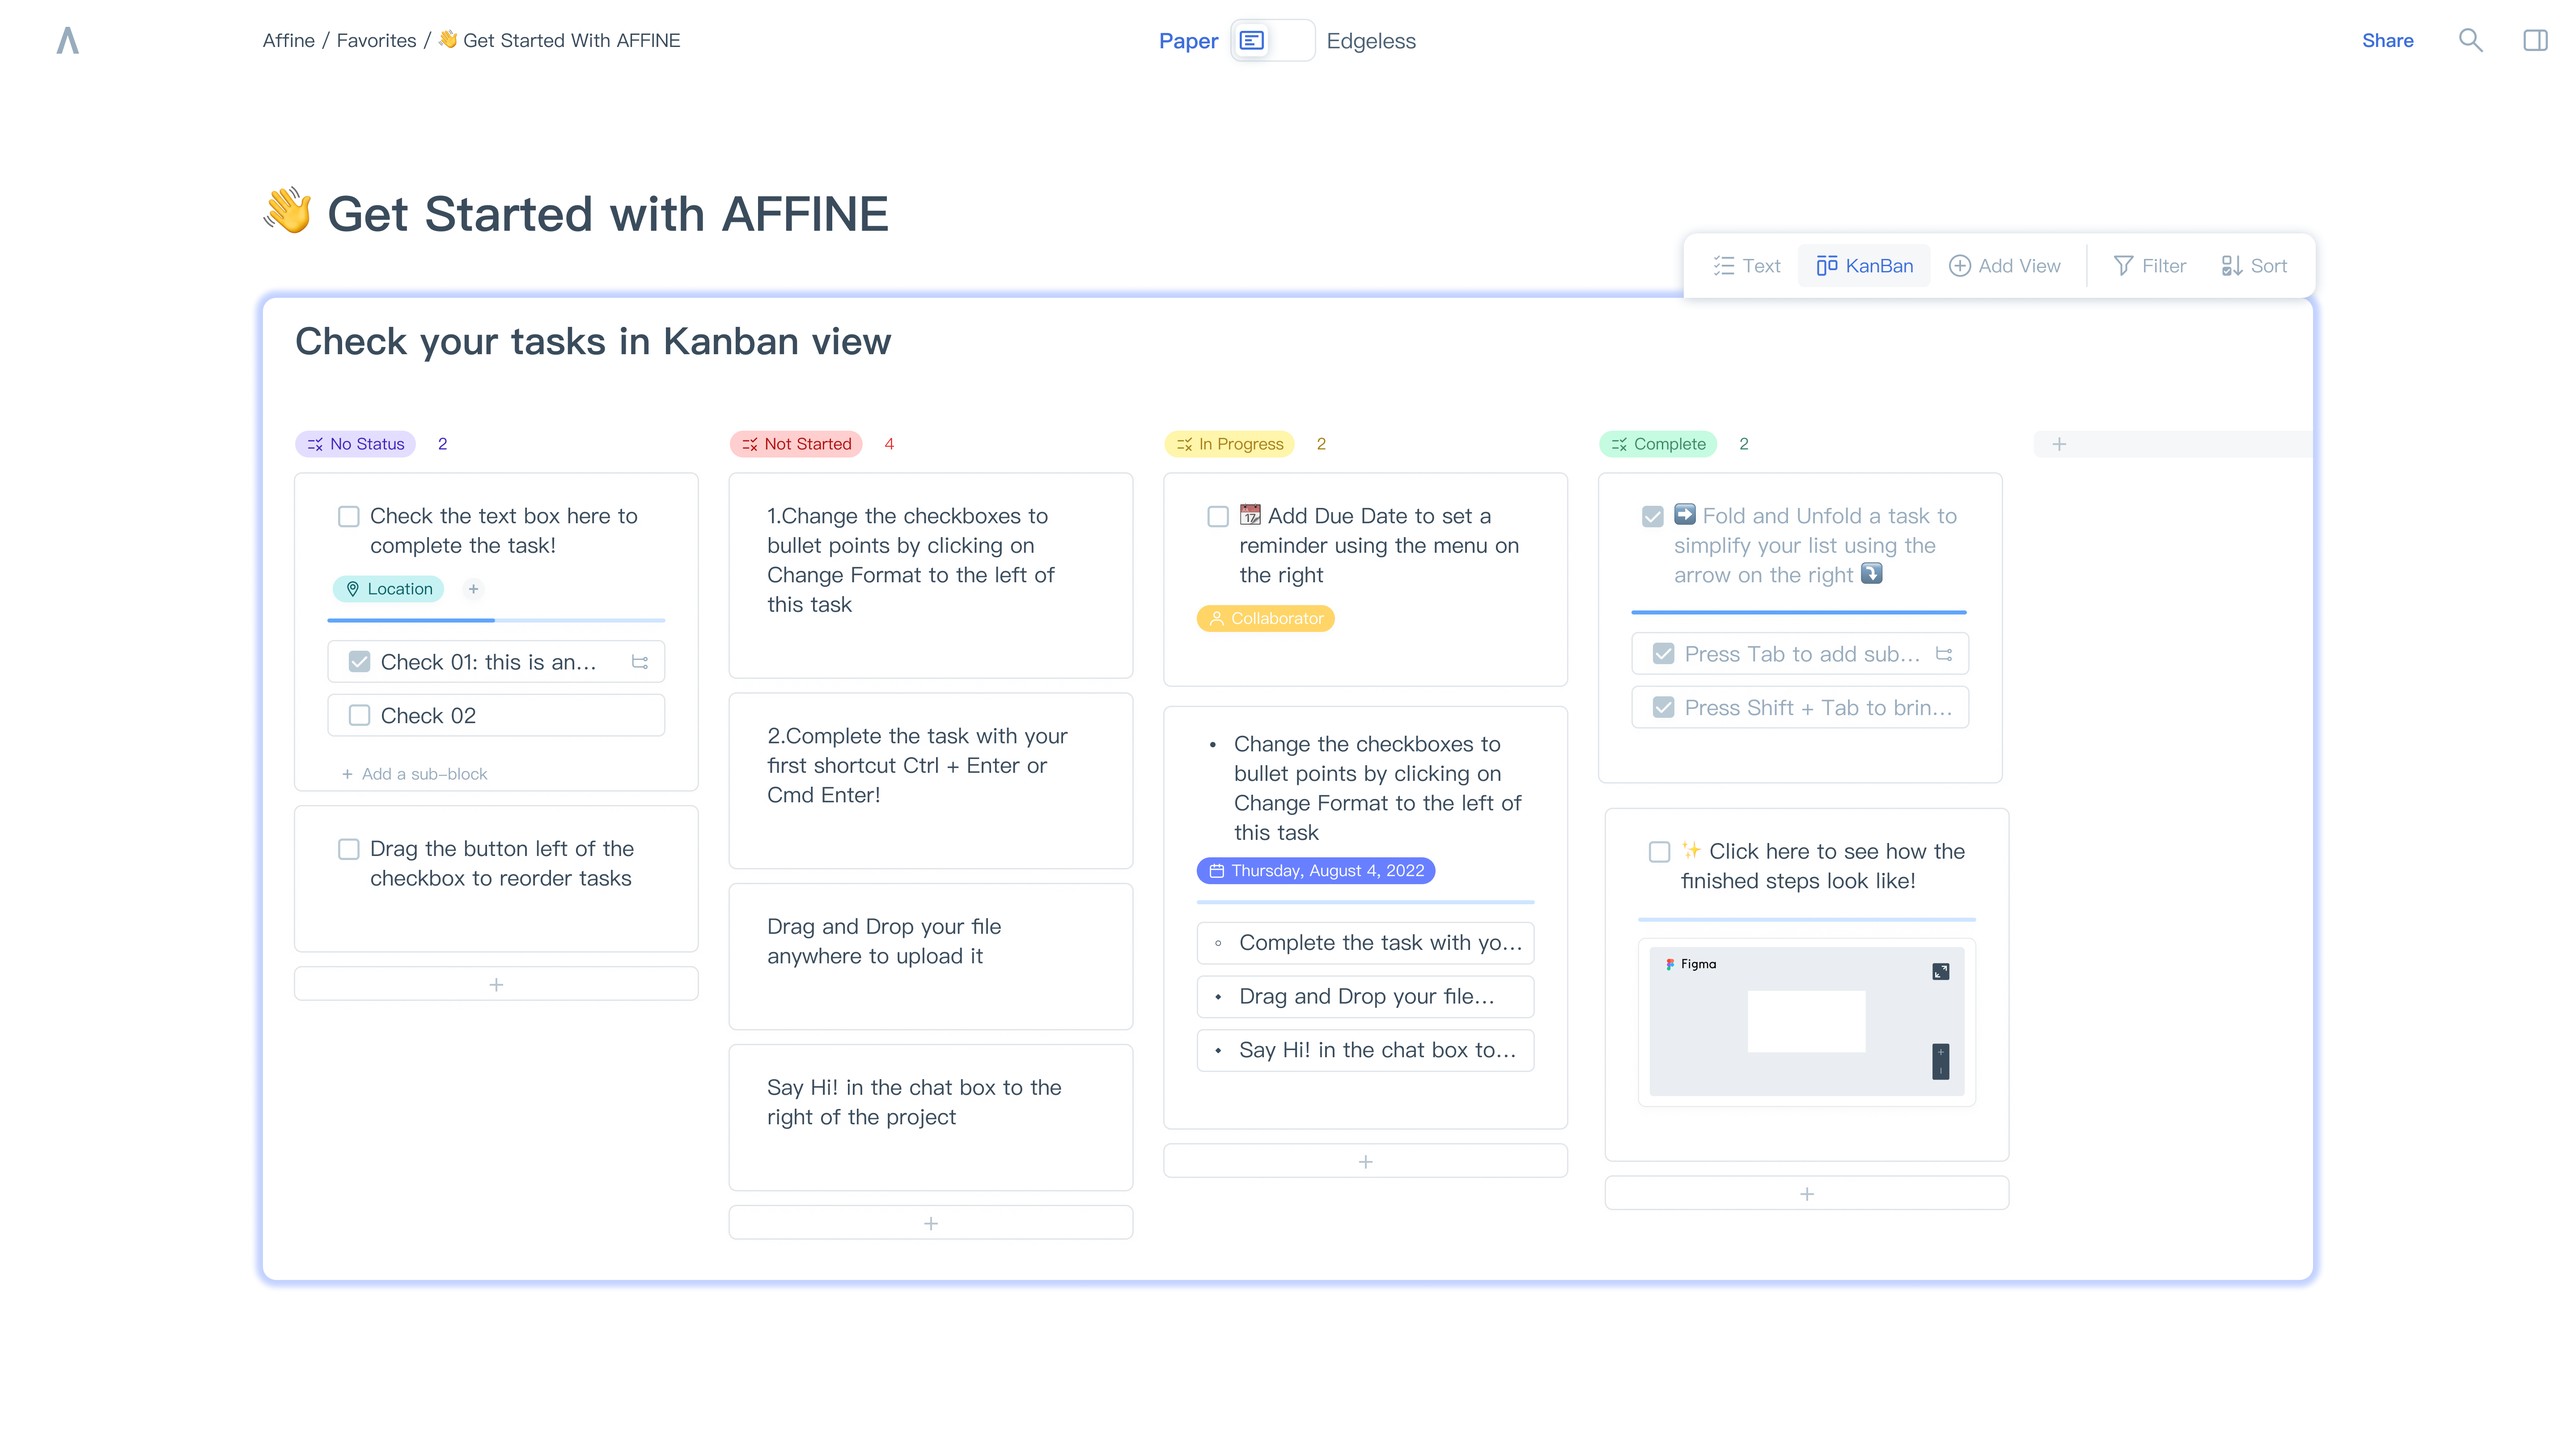
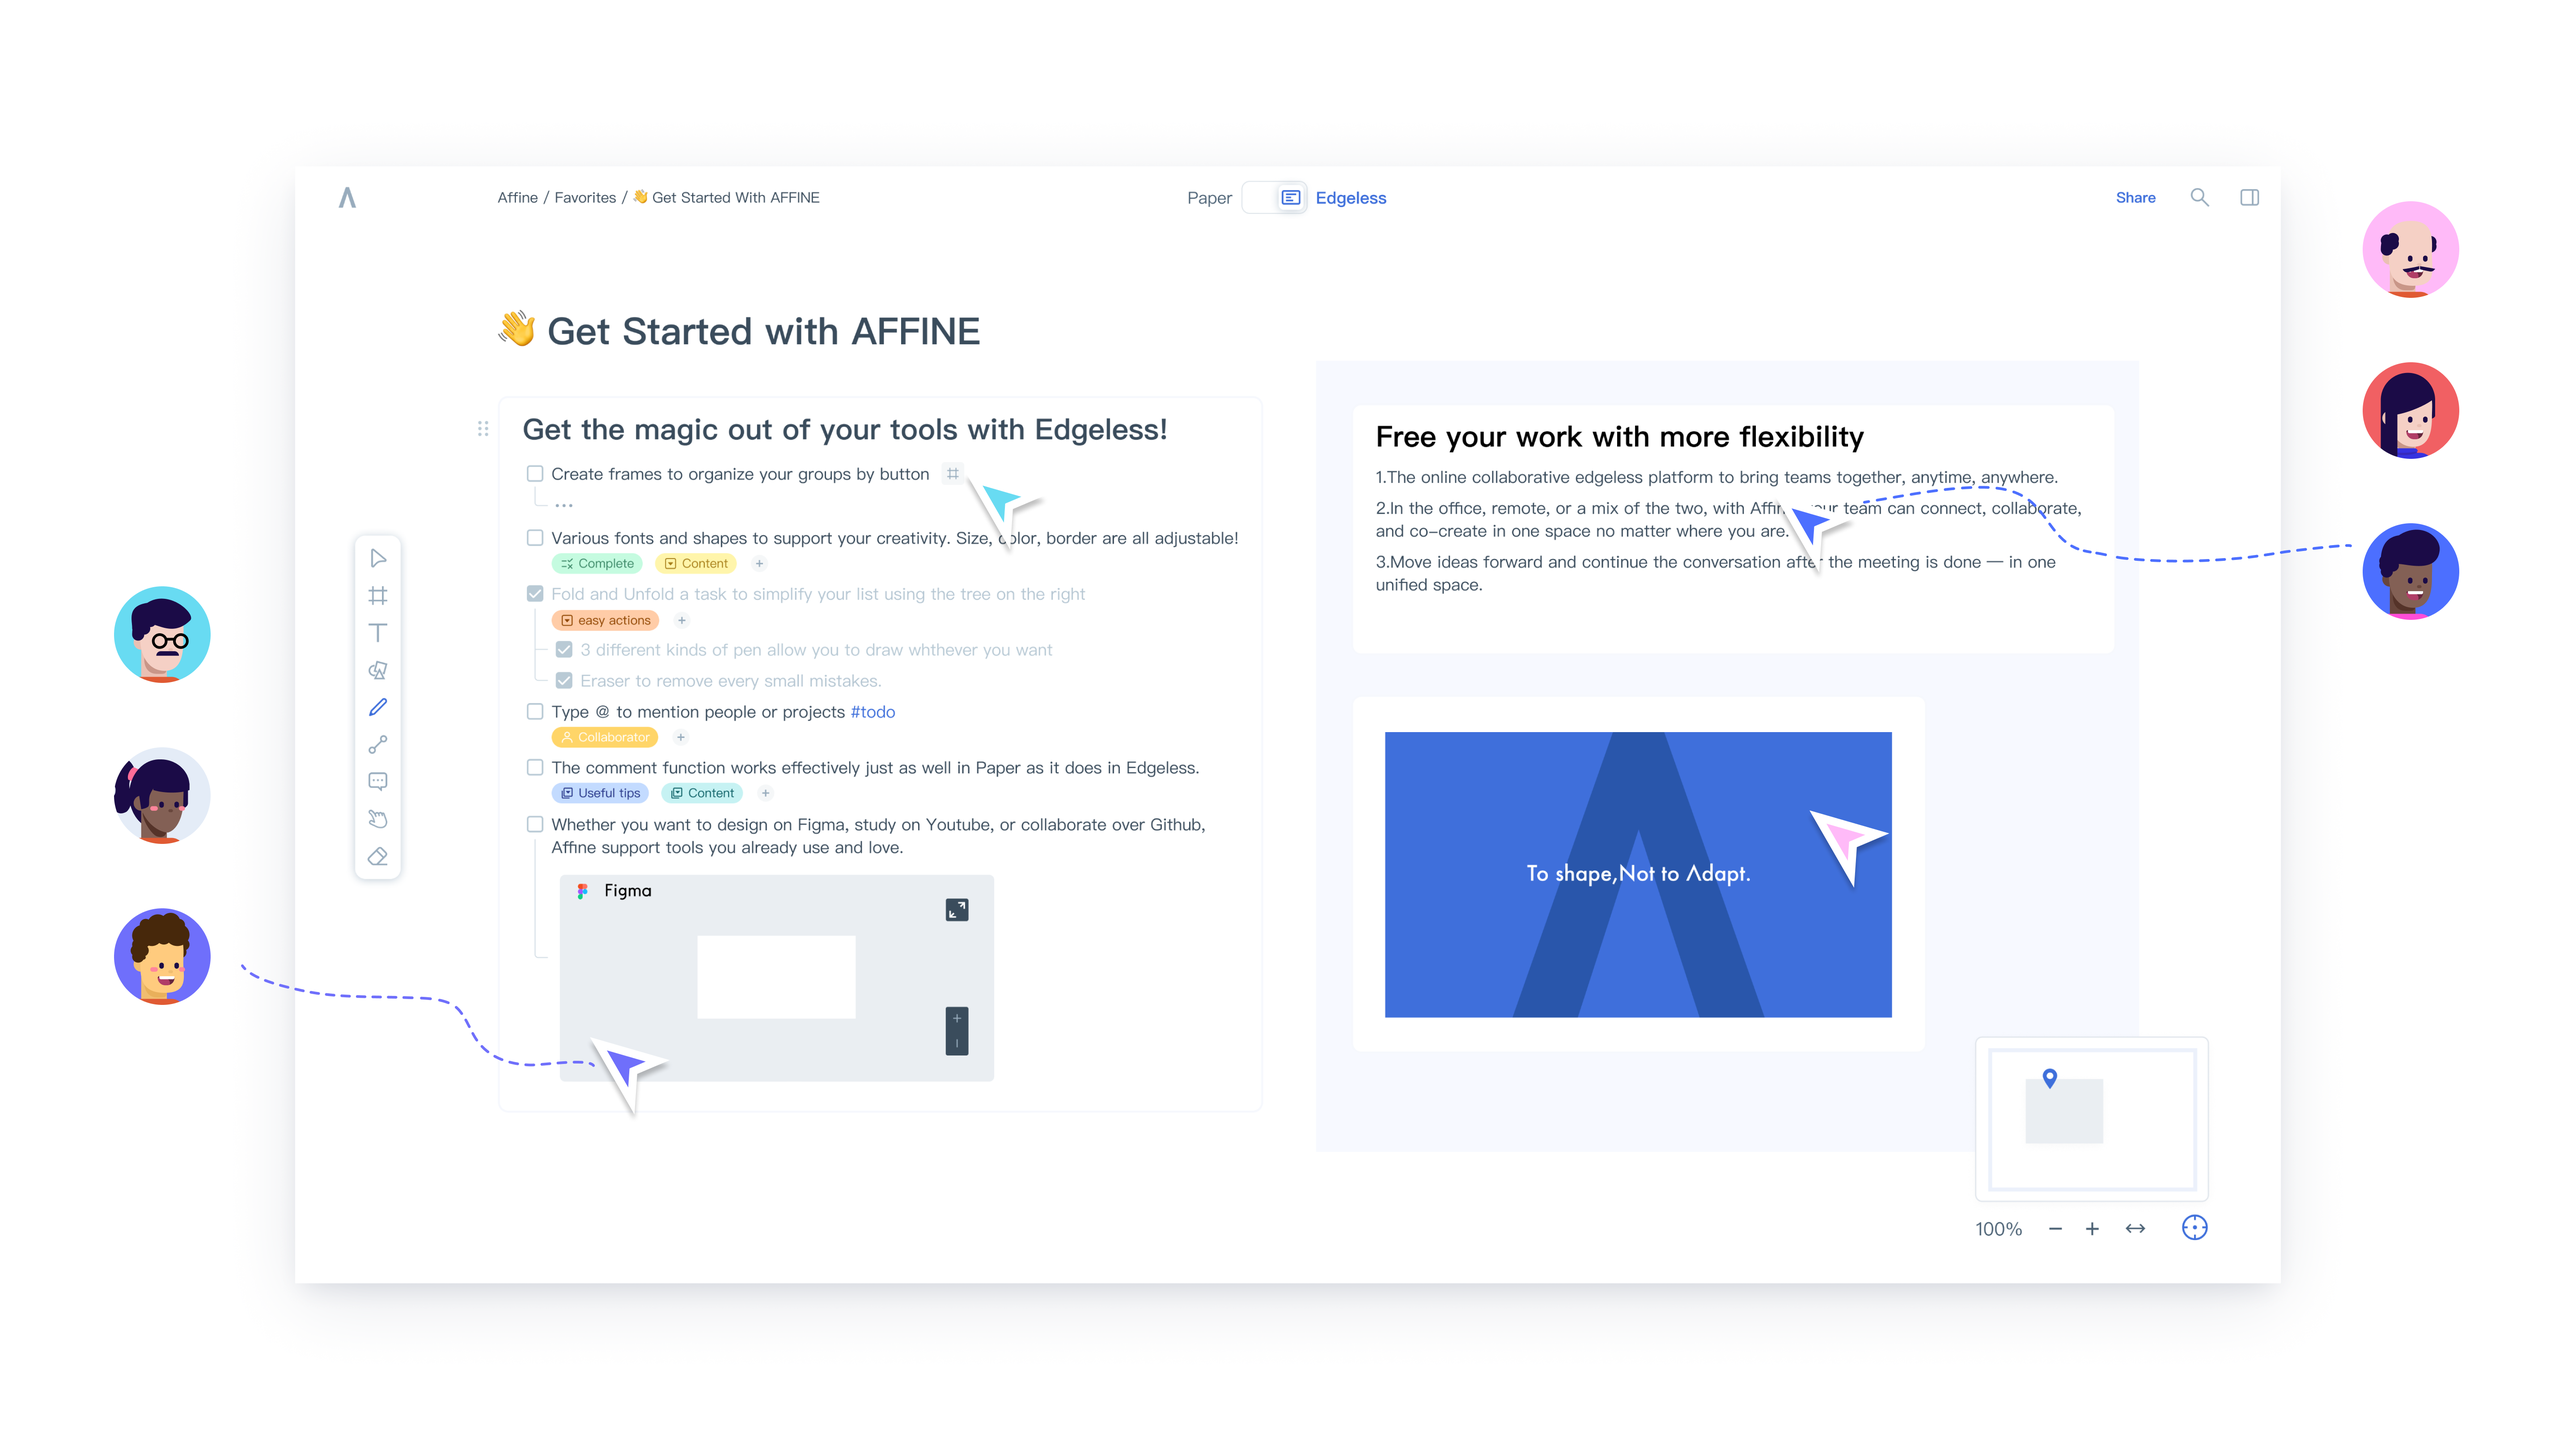
feat: venus style adjust

diff --git a/apps/venus/src/app/index.tsx b/apps/venus/src/app/index.tsx
@@ -661,10 +661,8 @@ export function App() {
                             margin: 'auto',
                             transition: 'all .5s',
                             transform: 'scale(0.98)',
-                            boxShadow: '2px 2px 40px #0002',
                             ':hover': {
                                 transform: 'scale(1)',
-                                boxShadow: '2px 2px 40px #0004',
                             },
                         }}
                     >
